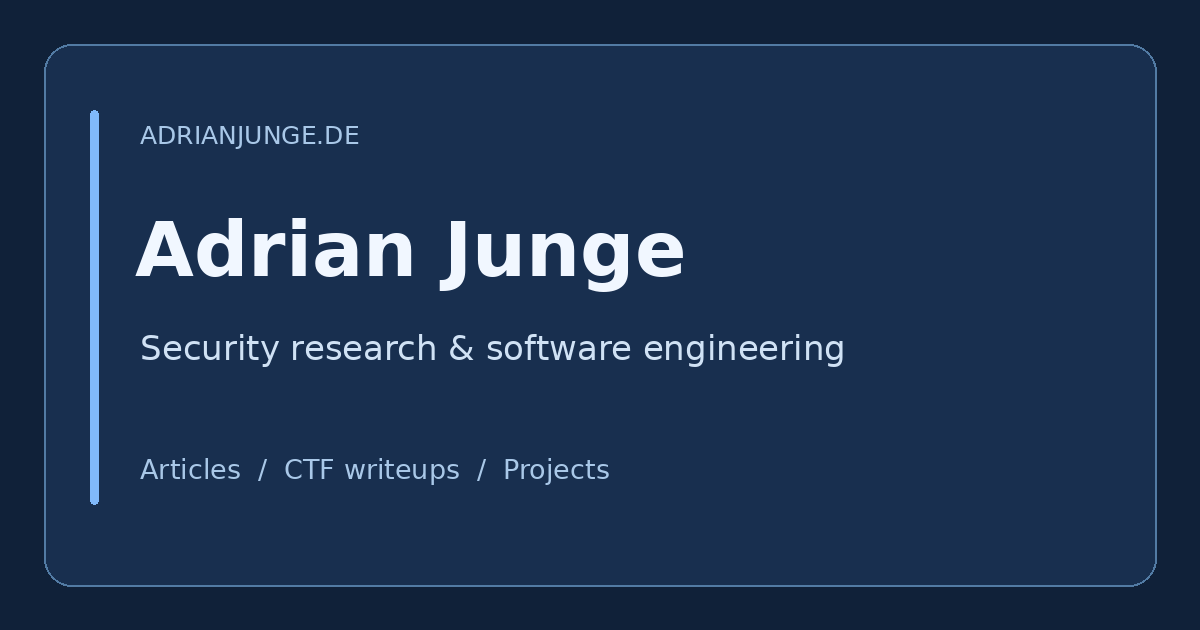
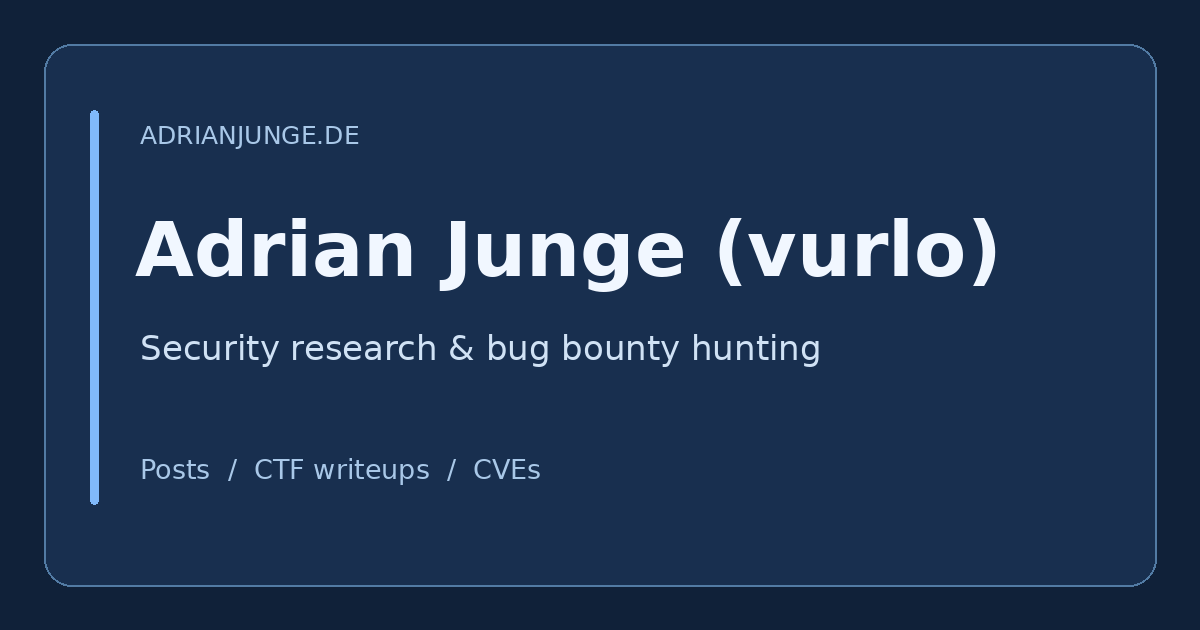
fix social-card

Changed region(s): [[0.5858, 0.3317, 0.8325, 0.4524], [0.0925, 0.7238, 0.4933, 0.7841], [0.4008, 0.5127, 0.7092, 0.6032]]

diff --git a/scripts/images/export.py b/scripts/images/export.py
@@ -72,9 +72,9 @@ def export_social_card(font_dir: Path, assets: Path | None = None) -> None:
     bold = str(font_dir / "DejaVuSans-Bold.ttf")
     regular = str(font_dir / "DejaVuSans.ttf")
     draw.text((140, 120), "ADRIANJUNGE.DE", font=ImageFont.truetype(regular, 25), fill="#a9c8e8")
-    draw.text((135, 205), "Adrian Junge", font=ImageFont.truetype(bold, 76), fill="#f1f7ff")
-    draw.text((140, 328), "Security research & software engineering", font=ImageFont.truetype(regular, 34), fill="#d0e2f5")
-    draw.text((140, 453), "Articles  /  CTF writeups  /  Projects", font=ImageFont.truetype(regular, 27), fill="#a9c8e8")
+    draw.text((135, 205), "Adrian Junge (vurlo)", font=ImageFont.truetype(bold, 76), fill="#f1f7ff")
+    draw.text((140, 328), "Security research & bug bounty hunting", font=ImageFont.truetype(regular, 34), fill="#d0e2f5")
+    draw.text((140, 453), "Posts  /  CTF writeups  /  CVEs", font=ImageFont.truetype(regular, 27), fill="#a9c8e8")
     target = assets / "landing/social-card.png"
     target.parent.mkdir(parents=True, exist_ok=True)
     image.save(target, optimize=True)
